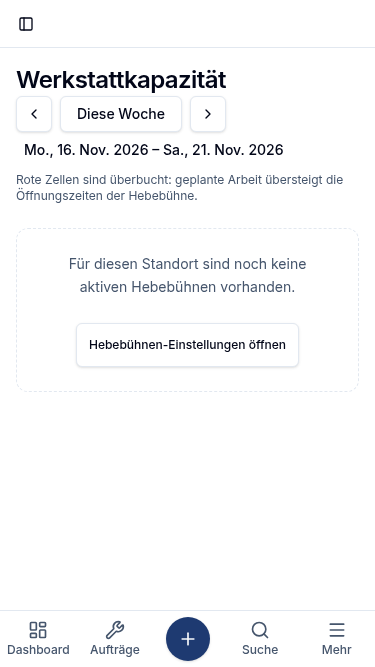
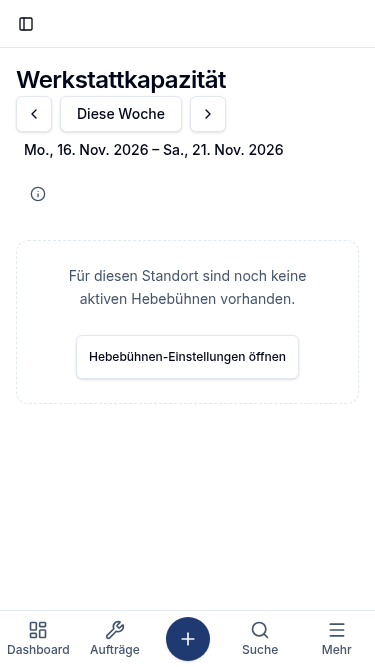
fix(core-web): AUT-952 move capacity overbooked hint behind info popover

diff --git a/apps/core-web/src/pages/workshop/WorkshopCapacityPage.tsx b/apps/core-web/src/pages/workshop/WorkshopCapacityPage.tsx
@@ -1,13 +1,14 @@
 import * as React from 'react'
 import { useTranslation } from 'react-i18next'
 import { useNavigate } from 'react-router-dom'
-import { ChevronLeft, ChevronRight } from 'lucide-react'
+import { ChevronLeft, ChevronRight, Info } from 'lucide-react'
 import { useAuthSession } from '@/api/auth-session'
 import { useWorkshopCapacityWeek } from '@/api/workshop'
 import { useMySites, useSetActiveSite } from '@/api/sites'
 import { PageHeader } from '@/components/layout/PageHeader'
 import { Button } from '@/components/ui/button'
 import { Empty, EmptyContent, EmptyDescription } from '@/components/ui/empty'
+import { Popover, PopoverContent, PopoverTrigger } from '@/components/ui/popover'
 import {
   Select,
   SelectContent,
@@ -18,6 +19,29 @@ import {
 import { Skeleton } from '@/components/ui/skeleton'
 import { CapacityWeekGrid } from '@/components/workshop/capacity/CapacityWeekGrid'
 import { addLocalDays, formatDateLabel } from '@/features/workshop/planner/planner-time'
+
+function CapacityOverbookedInfoPopover() {
+  const { t } = useTranslation('workshop')
+  return (
+    <Popover>
+      <PopoverTrigger asChild>
+        <Button
+          type="button"
+          variant="ghost"
+          size="icon"
+          className="min-h-11 min-w-11 text-muted-foreground"
+          aria-label={t('capacity.page.overbookedHint')}
+          data-testid="capacity-overbooked-info"
+        >
+          <Info className="h-4 w-4" aria-hidden />
+        </Button>
+      </PopoverTrigger>
+      <PopoverContent className="w-72 text-sm text-muted-foreground" align="end">
+        {t('capacity.page.overbookedHint')}
+      </PopoverContent>
+    </Popover>
+  )
+}
 
 export default function WorkshopCapacityPage() {
   const { t } = useTranslation('workshop')
@@ -97,7 +121,7 @@ export default function WorkshopCapacityPage() {
             </p>
           ) : null}
         </div>
-        <p className="text-xs text-muted-foreground">{t('capacity.page.overbookedHint')}</p>
+        <CapacityOverbookedInfoPopover />
       </div>
 
       {capacity.isError && !week ? (

diff --git a/apps/core-web/e2e/operational-compact-texts-phone.spec.ts b/apps/core-web/e2e/operational-compact-texts-phone.spec.ts
@@ -465,6 +465,16 @@ test.describe('AUT-952: Kompakte Texte — no repeated OK badges or explanatory 
         await ensureUiLanguage(page, language)
         await expect(page.getByText(language === 'de' ? item.titleDe : item.titleEn).first()).toBeVisible()
         await expect(page.getByText(language === 'de' ? item.de : item.en)).toHaveCount(0)
+        if (item.slug === 'capacity') {
+          const overbookedHint = language === 'de' ? deWorkshop.capacity.page.overbookedHint : enWorkshop.capacity.page.overbookedHint
+          await expect(page.getByText(overbookedHint)).toHaveCount(0)
+          await captureDocScreenshot(page, `aut-952-${item.slug}-${language}-375.png`, { fullPage: true })
+          const infoButton = page.getByTestId('capacity-overbooked-info')
+          await expect(infoButton).toBeVisible()
+          await infoButton.click()
+          await expect(page.getByText(overbookedHint)).toBeVisible()
+          continue
+        }
         await captureDocScreenshot(page, `aut-952-${item.slug}-${language}-375.png`, { fullPage: true })
       }
     }

diff --git a/apps/core-web/src/pages/workshop/WorkshopCapacityPage.test.tsx b/apps/core-web/src/pages/workshop/WorkshopCapacityPage.test.tsx
@@ -261,4 +261,12 @@ describe('WorkshopCapacityPage', () => {
     expect(document.body.textContent).not.toContain('Mo., 19. Okt. 2026')
     expect(screen.getByRole('table').closest('[aria-busy]')).toHaveAttribute('aria-busy', 'true')
   })
+
+  it('keeps the overbooked hint behind an info button until opened', () => {
+    renderPage()
+
+    expect(screen.queryByText(cap.page.overbookedHint)).not.toBeInTheDocument()
+    fireEvent.click(screen.getByTestId('capacity-overbooked-info'))
+    expect(screen.getByText(cap.page.overbookedHint)).toBeInTheDocument()
+  })
 })
